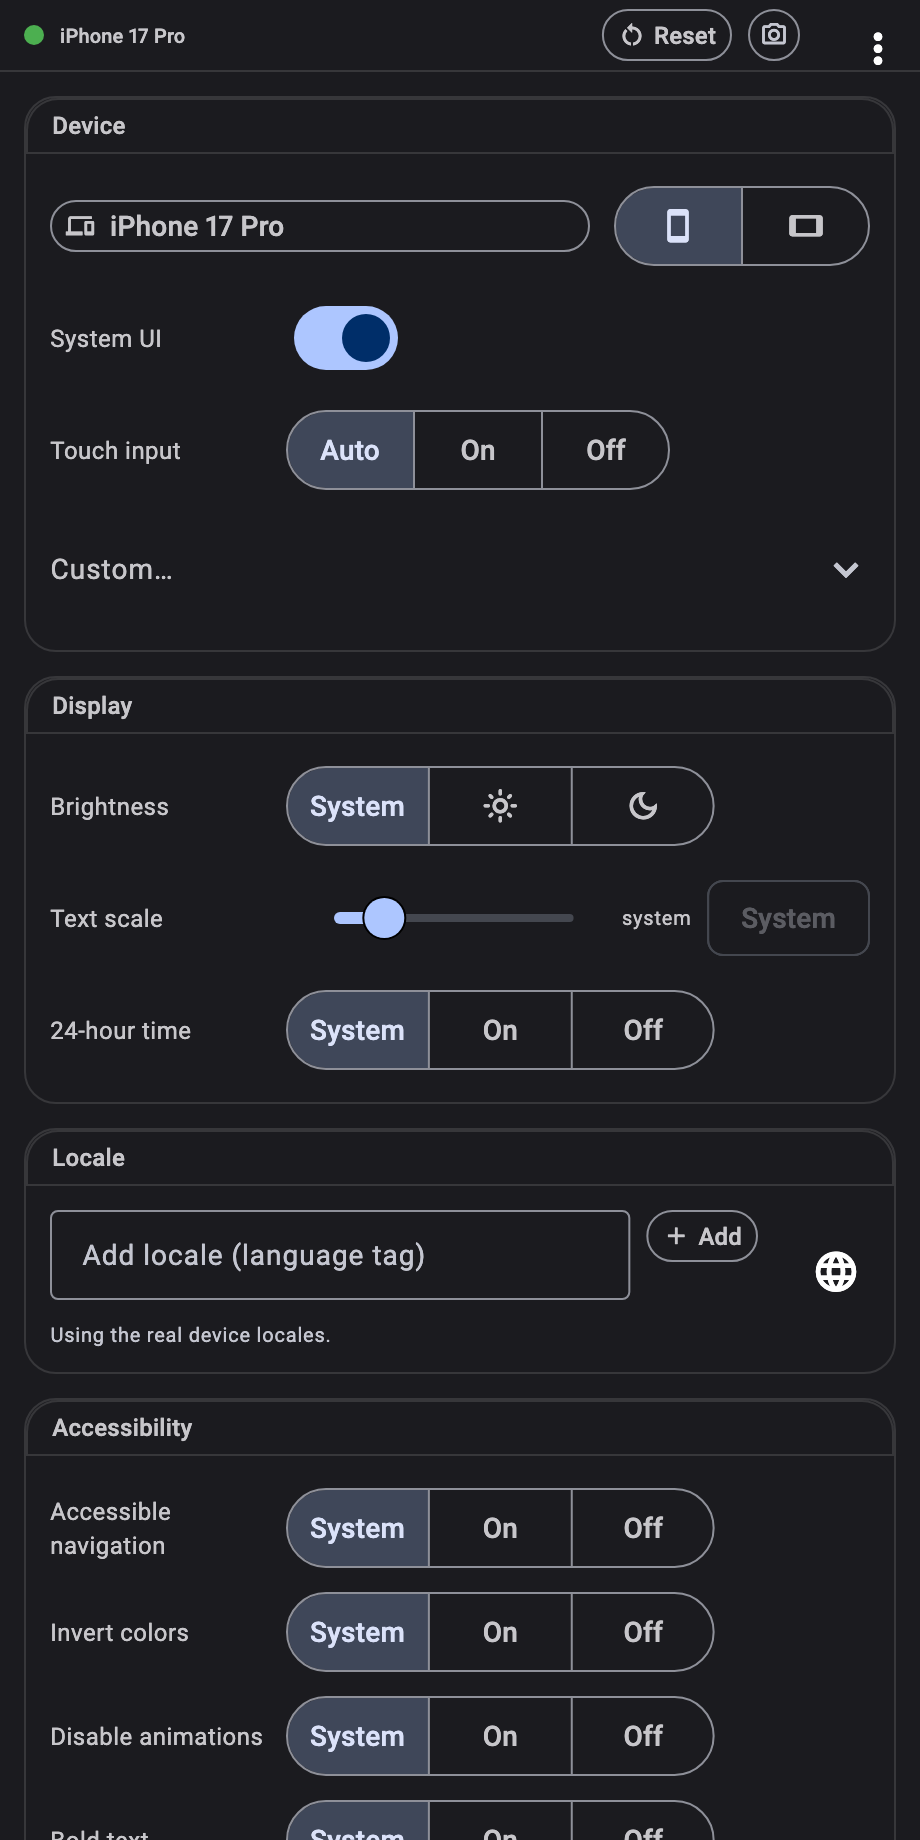
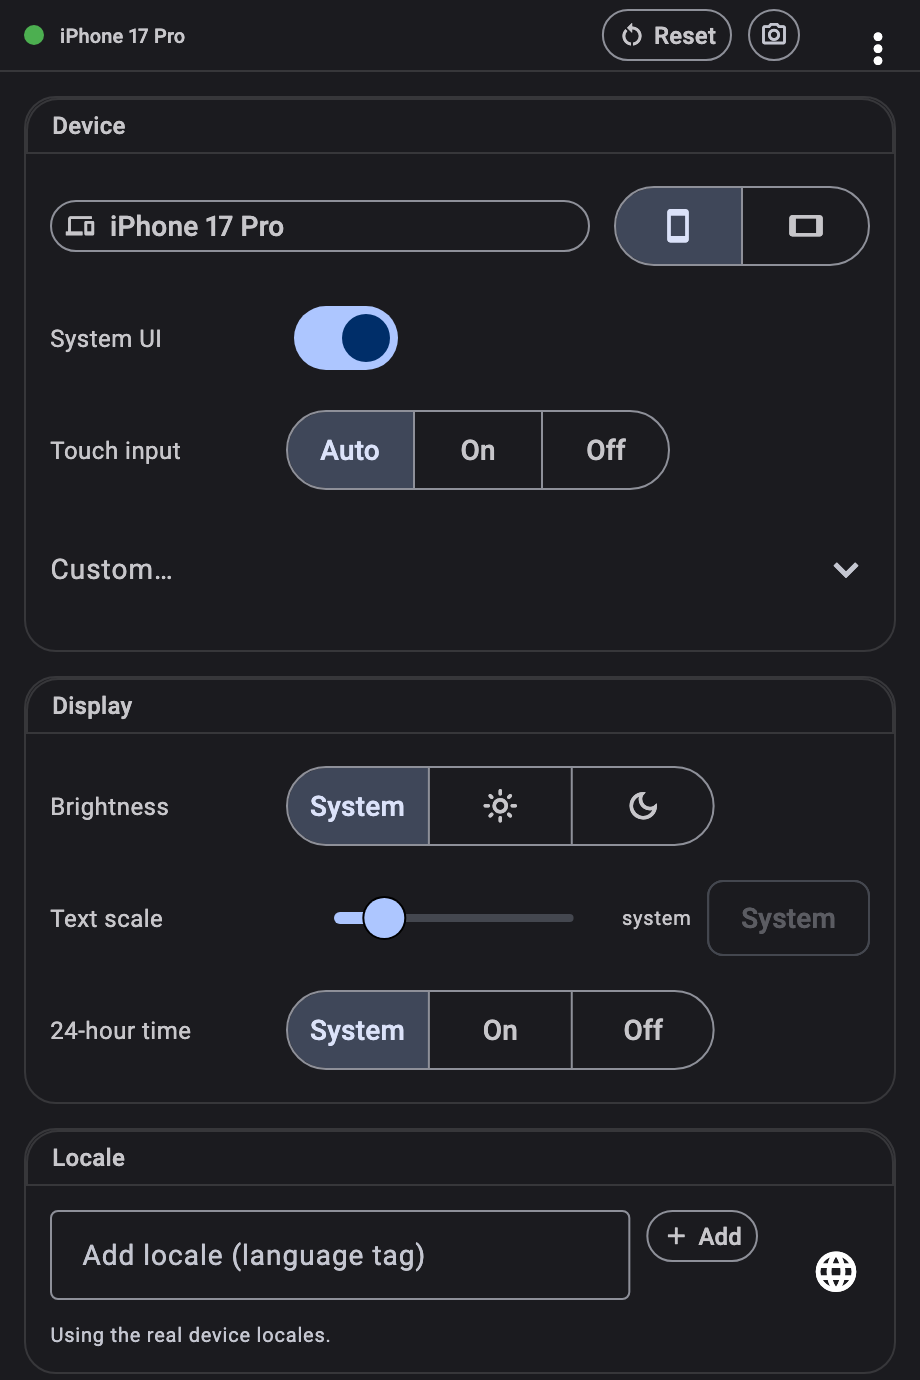
Panel shot ratio 1:2 → 1:1.5
Claude-Session: https://claude.ai/code/session_01Dj2sLPEMBaQavFfSHsyG7M

diff --git a/docs/index.html b/docs/index.html
@@ -540,7 +540,7 @@ h2 {
 @media (max-width: 940px) { .devtools-grid { grid-template-columns: 1fr; } }
 .devtools-grid p { color: var(--ink-dim); margin-bottom: 14px; }
 .devtools-grid p strong { color: var(--ink); }
-.panel-shot img { display: block; width: 100%; max-width: 400px; height: auto; aspect-ratio: 1 / 2; object-fit: cover; object-position: top; margin: 0 auto; border: 1px solid var(--line-strong); border-radius: 12px; box-shadow: 0 24px 60px rgba(0, 0, 0, .45); }
+.panel-shot img { display: block; width: 100%; max-width: 400px; height: auto; aspect-ratio: 1 / 1.5; object-fit: cover; object-position: top; margin: 0 auto; border: 1px solid var(--line-strong); border-radius: 12px; box-shadow: 0 24px 60px rgba(0, 0, 0, .45); }
 .panel-shot figcaption { text-align: center; color: var(--ink-faint); font-size: 13px; margin-top: 12px; }
 
 /* testing strip */
@@ -886,7 +886,7 @@ footer { border-top: 1px solid var(--line); margin-top: 40px; }
         <p><a class="btn ghost" href="#demo">↑ Try the panel on the live demo</a></p>
       </div>
       <figure class="panel-shot reveal">
-        <img src="images/devtools-panel.png" width="460" height="920" loading="lazy" alt="The device_preview DevTools panel, dark themed, with an iPhone 17 Pro applied: a Device section with orientation, system UI and touch input controls, a Display section with brightness, text scale and 24-hour time, a Locale list, seven tri-state Accessibility flags, and a target Platform picker.">
+        <img src="images/devtools-panel.png" width="460" height="690" loading="lazy" alt="The device_preview DevTools panel, dark themed, with an iPhone 17 Pro applied: a Device section with orientation, system UI and touch input controls, a Display section with brightness, text scale and 24-hour time, a Locale list, seven tri-state Accessibility flags, and a target Platform picker.">
         <figcaption>The panel, as it appears in DevTools — every control is a tri-state: on, off, or as the real device.</figcaption>
       </figure>
     </div>

diff --git a/device_preview_devtools_extension/test/screenshots/capture_panel.dart b/device_preview_devtools_extension/test/screenshots/capture_panel.dart
@@ -66,10 +66,10 @@ void main() {
   });
 
   testWidgets('captures the panel', (WidgetTester tester) async {
-    // A DevTools-sidebar-ish viewport, cropped to a 1:2 aspect ratio so the
-    // website embed stays compact; the panel scrolls, so the lower sections
-    // are simply cut at the fold.
-    tester.view.physicalSize = const ui.Size(460, 920);
+    // A DevTools-sidebar-ish viewport, cropped to a 1:1.5 aspect ratio so
+    // the website embed stays compact; the panel scrolls, so the lower
+    // sections are simply cut at the fold.
+    tester.view.physicalSize = const ui.Size(460, 690);
     tester.view.devicePixelRatio = 1.0;
     addTearDown(tester.view.reset);
 
